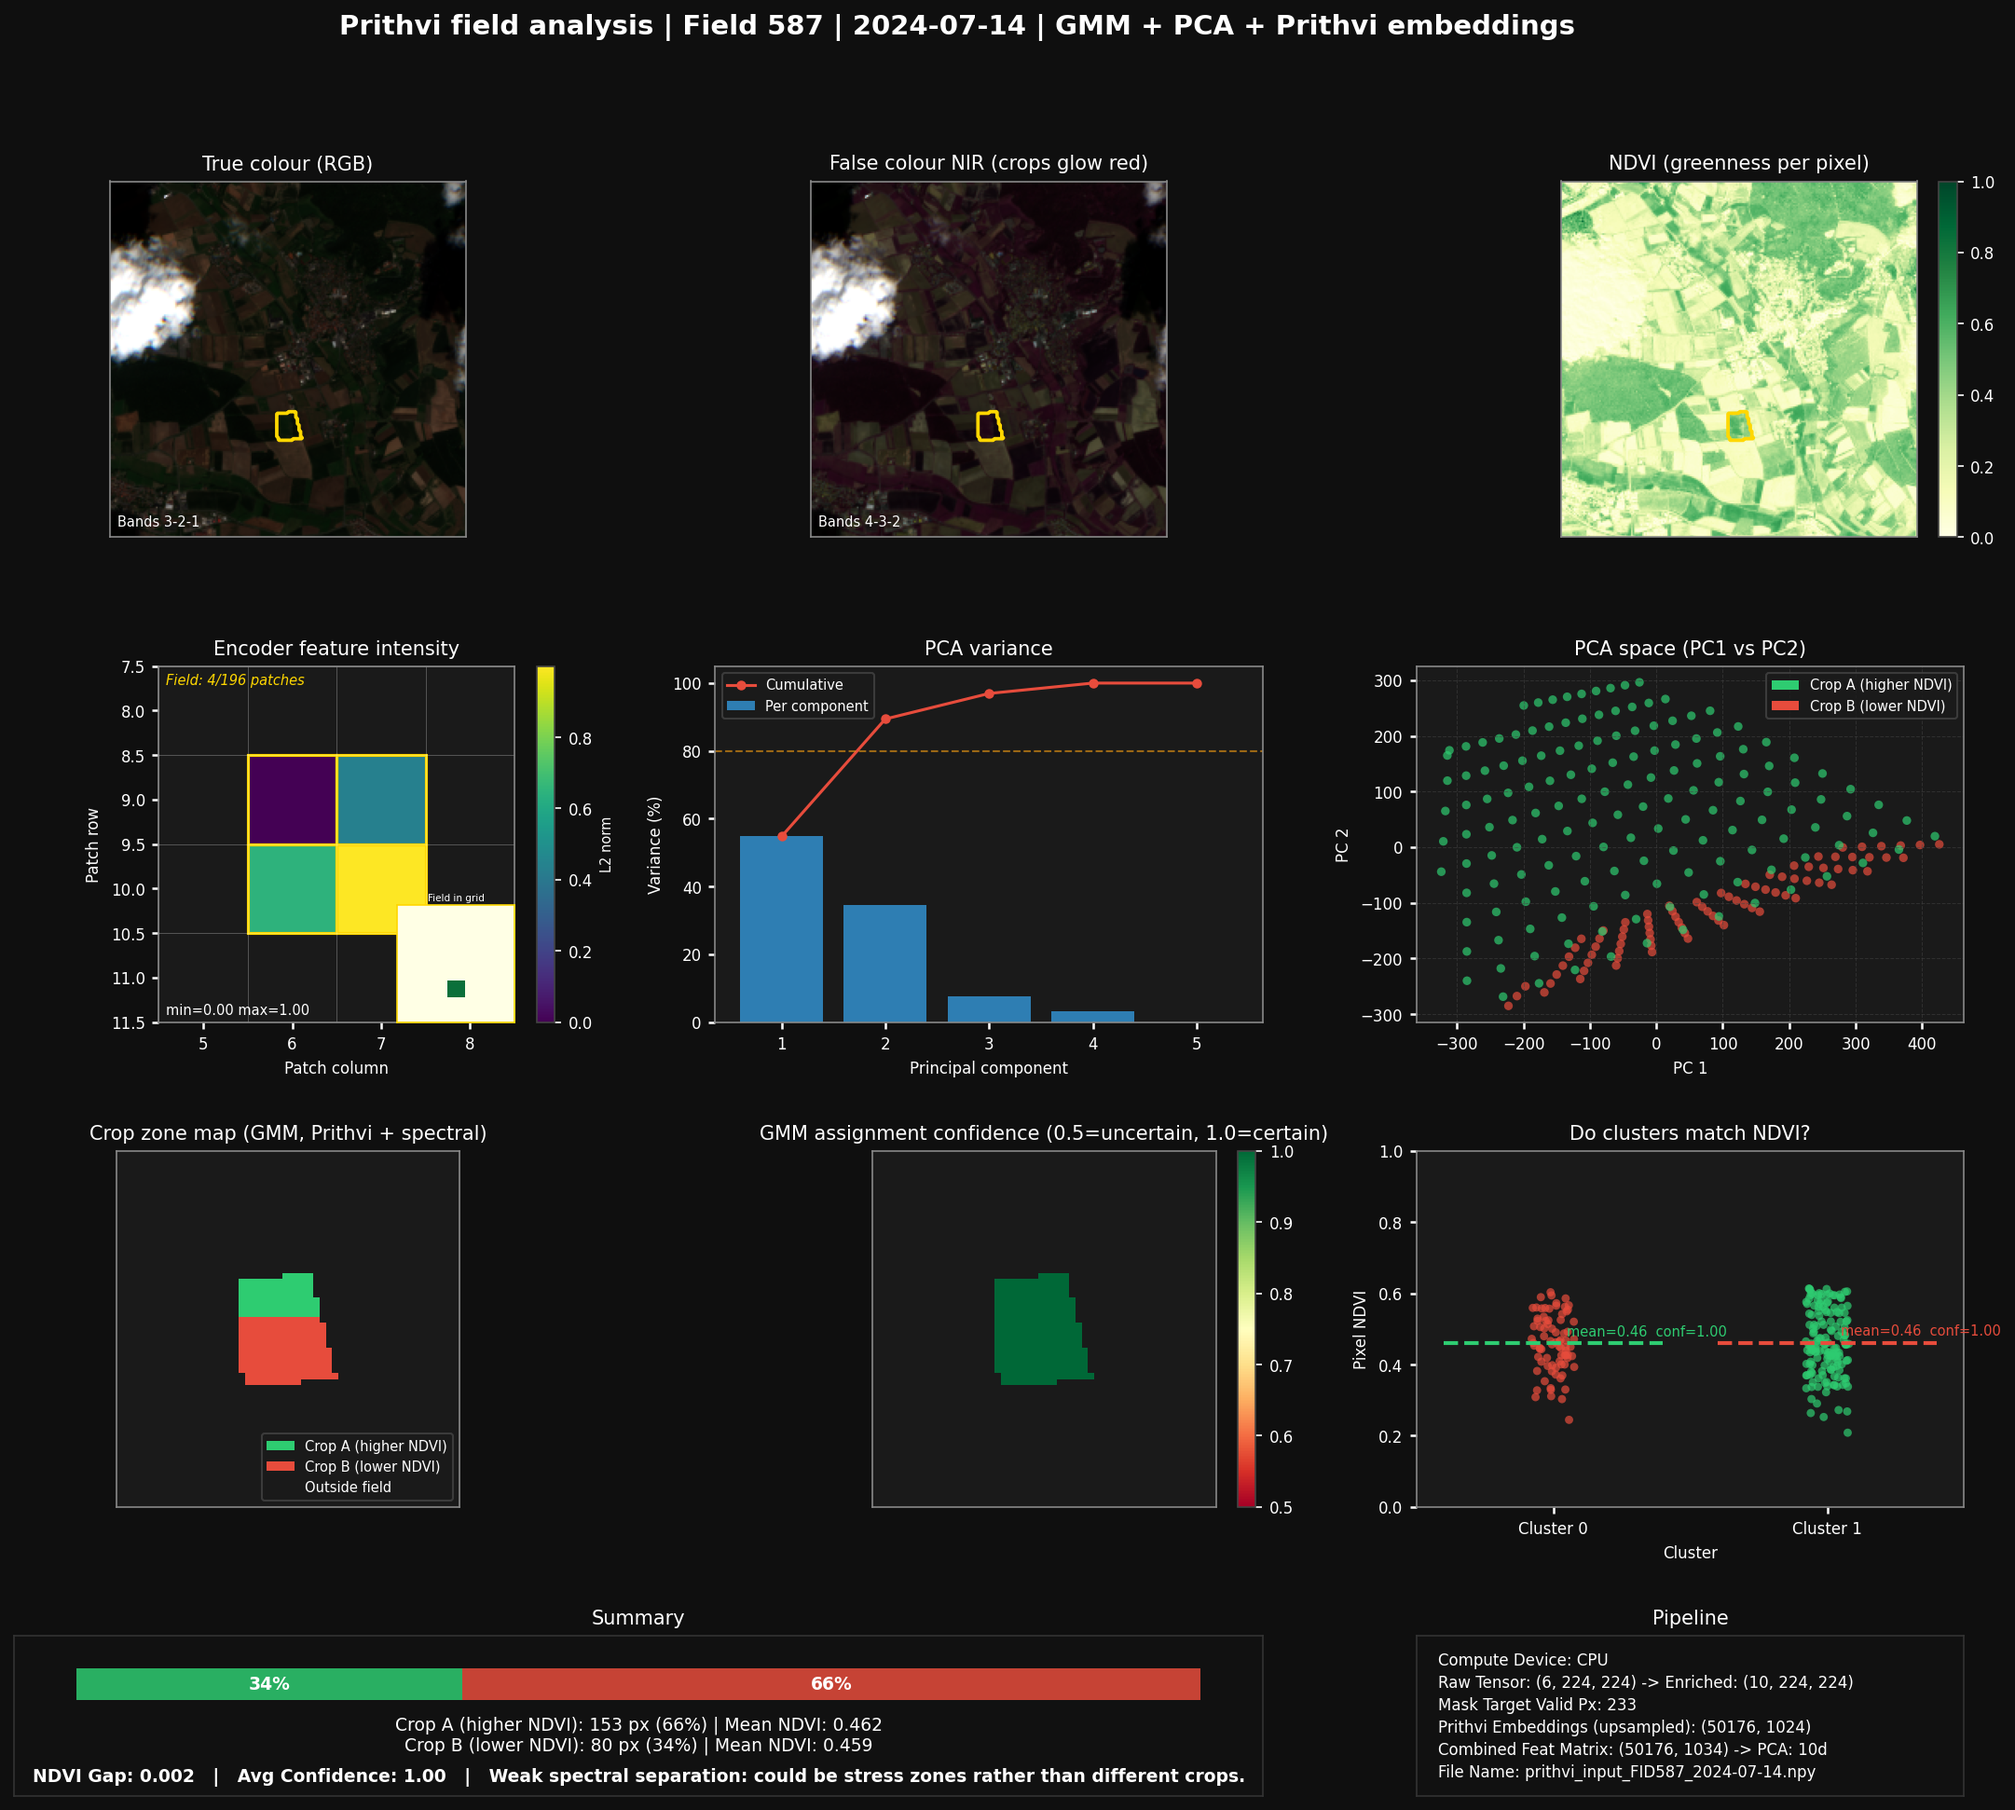
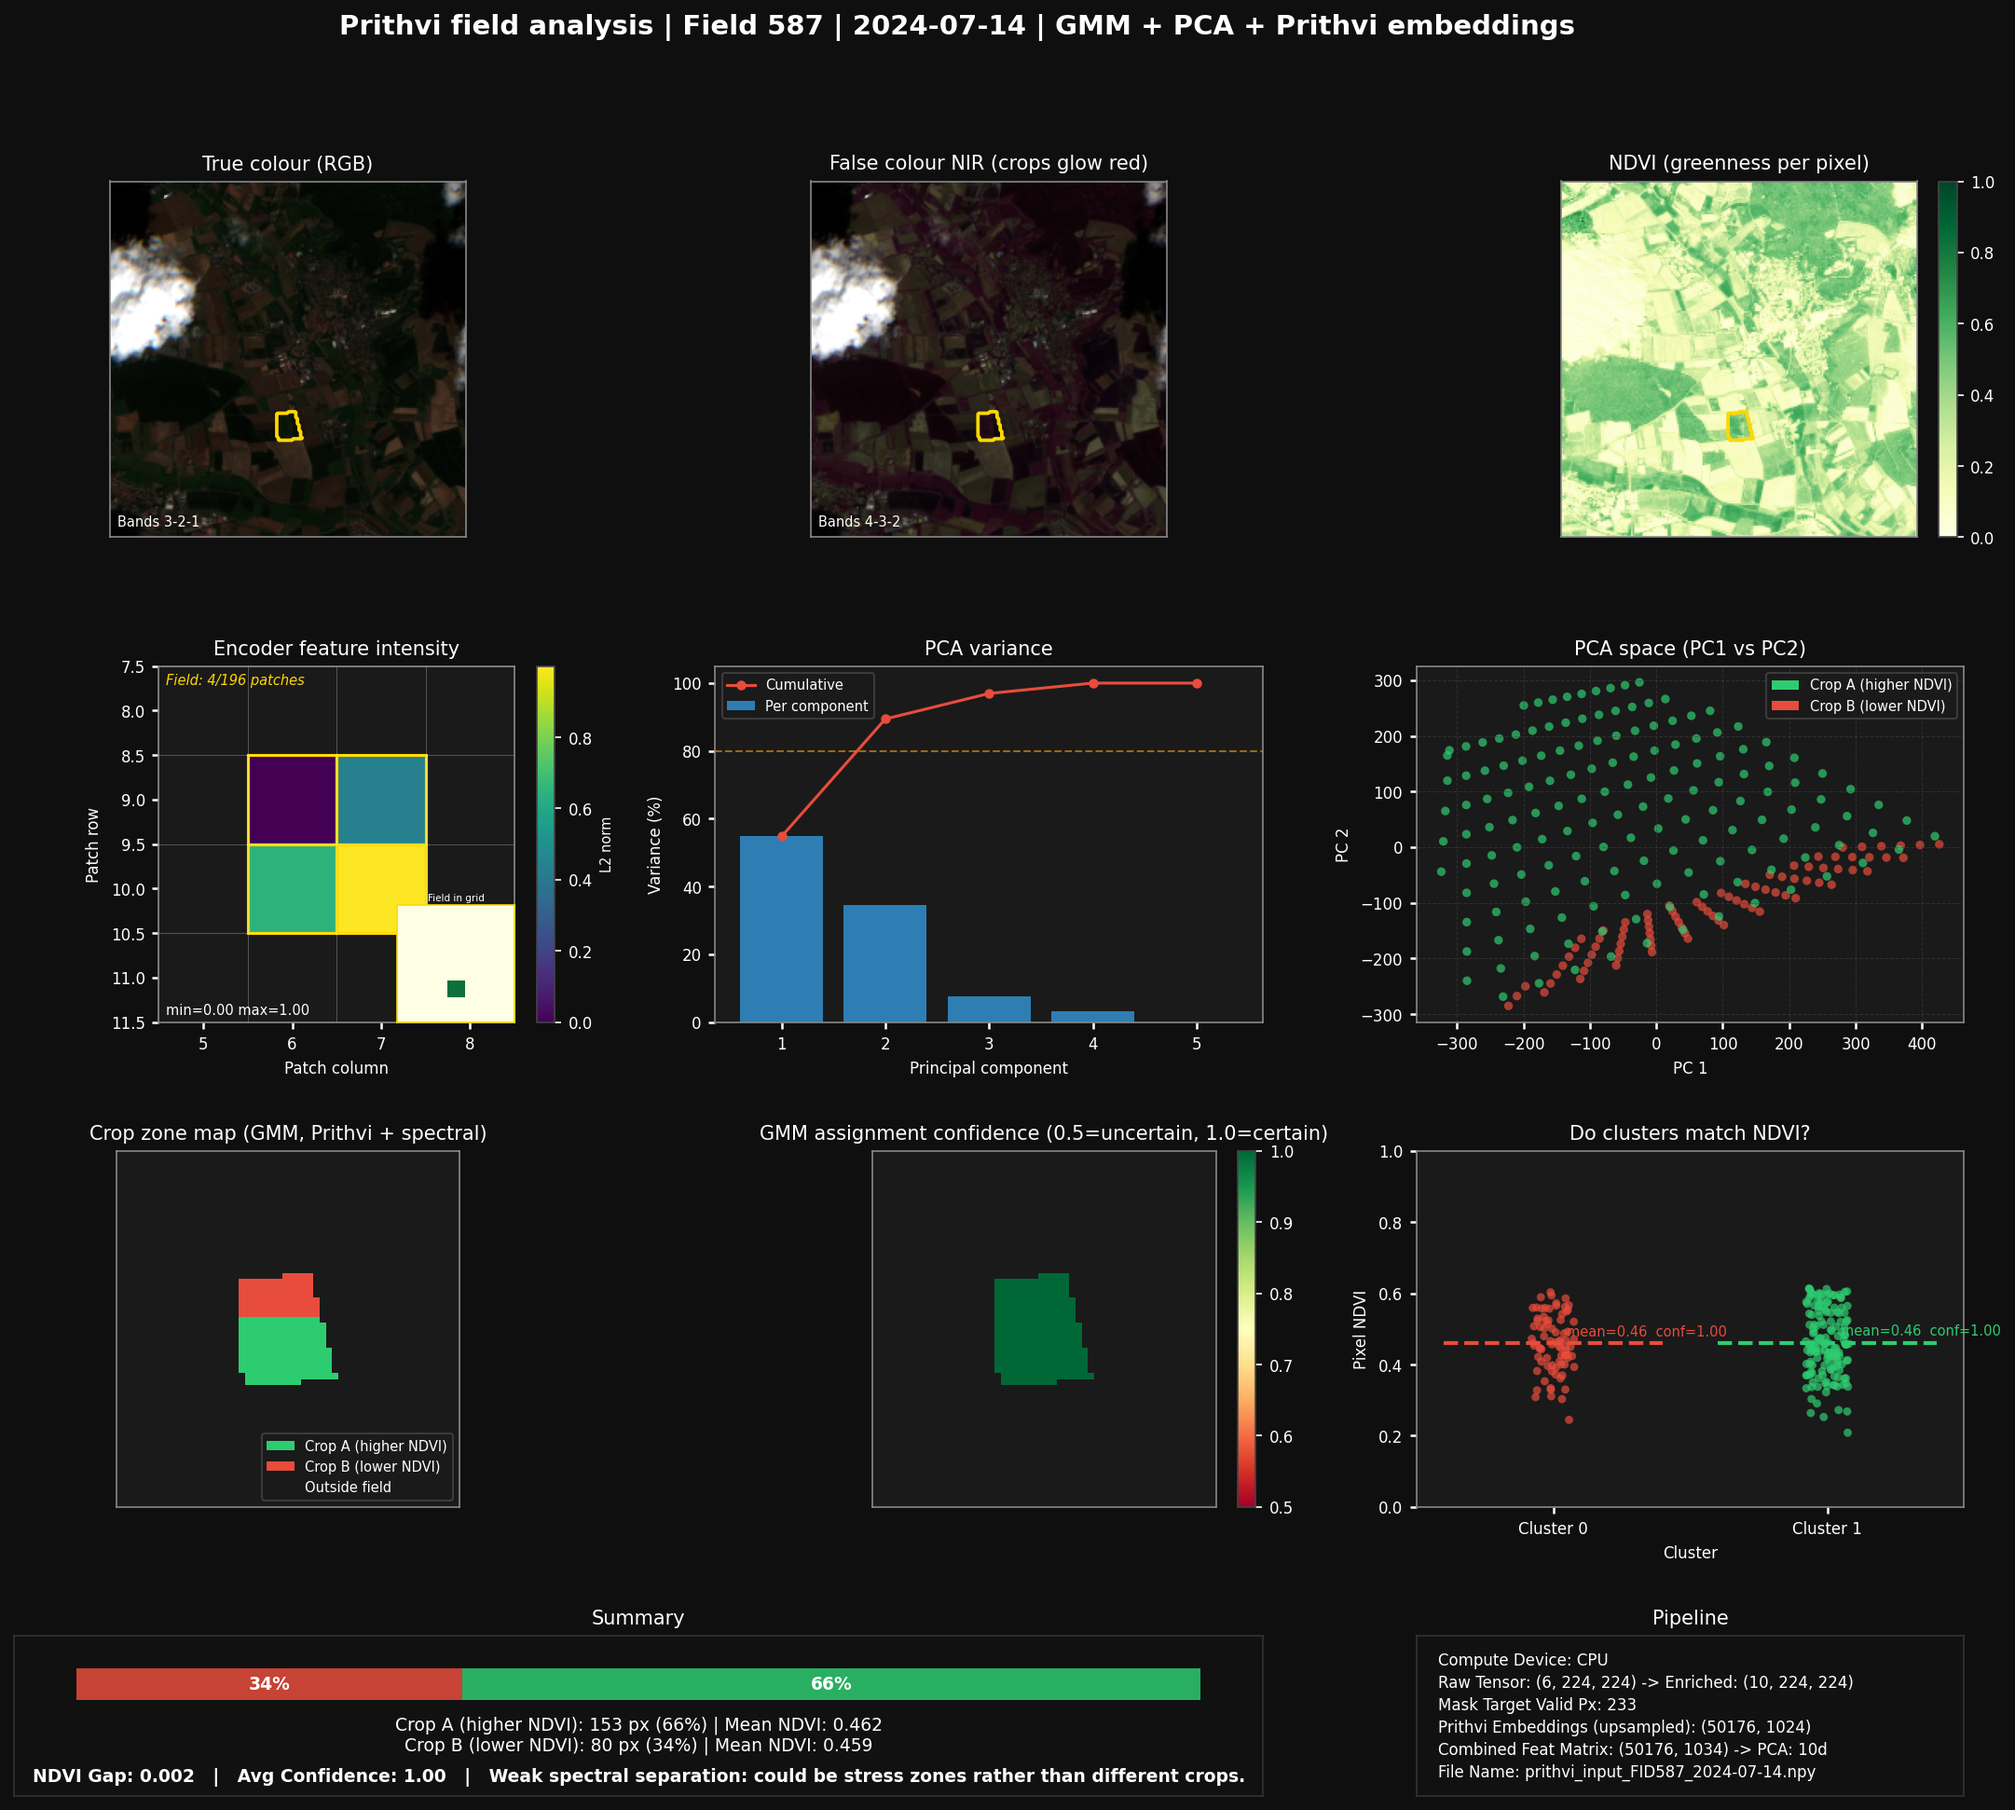
updated visualization

Changed region(s): [[0.031, 0.896, 0.5888, 0.9578], [0.093, 0.6797, 0.1859, 0.7724]]

diff --git a/prithvi/greenspin/crop_analysis/visualization.py b/prithvi/greenspin/crop_analysis/visualization.py
@@ -179,7 +179,11 @@ def _panel_pca_scatter(ax, result: ClusterResult):
 
 
 def _panel_crop_map(ax, result: ClusterResult, mask_224):
-    cmap = ListedColormap([COL_A, COL_B, BG_PANEL])
+    gi   = result.greener_idx  
+    _clr = [BG_PANEL] * 3
+    _clr[gi]   = COL_A
+    _clr[1-gi] = COL_B
+    cmap = ListedColormap(_clr)
     ax.imshow(result.pixel_cluster_map, cmap=cmap, interpolation='nearest', vmin=0, vmax=2)
     _style(ax, 'Crop zone map (GMM, Prithvi + spectral)')
     ax.set_xticks([]); ax.set_yticks([])
@@ -187,7 +191,6 @@ def _panel_crop_map(ax, result: ClusterResult, mask_224):
     pad = 20
     ax.set_xlim(cols.min() - pad, cols.max() + pad)
     ax.set_ylim(rows.max() + pad, rows.min() - pad)
-    gi = result.greener_idx
     ax.legend(
         handles=[Patch(facecolor=COL_A, label=result.crop_names[gi]),
                  Patch(facecolor=COL_B, label=result.crop_names[1-gi]),
@@ -219,7 +222,8 @@ def _panel_ndvi_scatter(ax, result: ClusterResult, ndvi, mask_224, mask_clean):
     ax.set_xticks([0, 1])
     ax.set_xticklabels(['Cluster 0', 'Cluster 1'], color=LABEL_COL, fontsize=8)
     ax.set_xlim(-0.5, 1.5); ax.set_ylim(0, 1)
-    for i, color in enumerate([COL_A, COL_B]):
+    for i in range(2):
+        color    = COL_A if i == gi else COL_B
         mean_val = result.cluster_ndvi_avg[i]
         ax.axhline(mean_val, xmin=i*0.5+0.05, xmax=i*0.5+0.45,
                    color=color, linewidth=2, linestyle='--')
@@ -238,7 +242,8 @@ def _panel_summary(ax, result: ClusterResult):
     ax.set_title('Summary', color=TITLE_COL, fontsize=10, pad=6)
 
     left = 0.05
-    for i, color in enumerate([COL_A, COL_B]):
+    for i in range(2):
+        color = COL_A if i == result.greener_idx else COL_B
         width = (result.cluster_pct[i] / 100) * 0.9
         ax.barh(0.70, width, left=left, height=0.20, color=color, alpha=0.85)
         ax.text(left + width/2, 0.70, f'{result.cluster_pct[i]:.0f}%',
